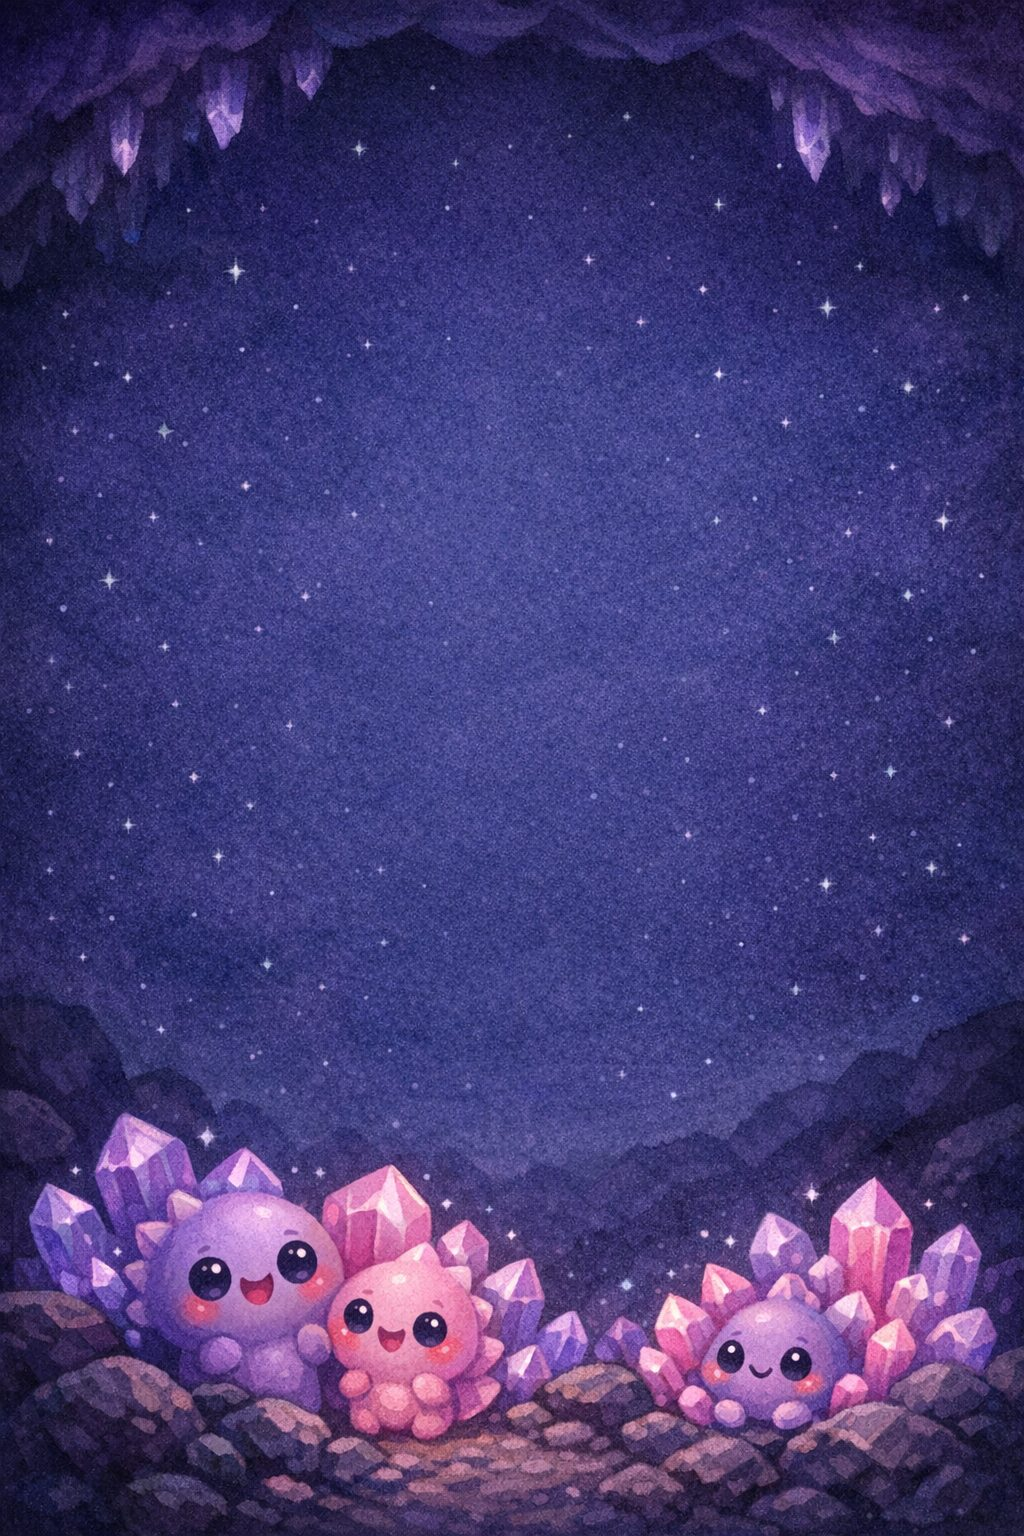
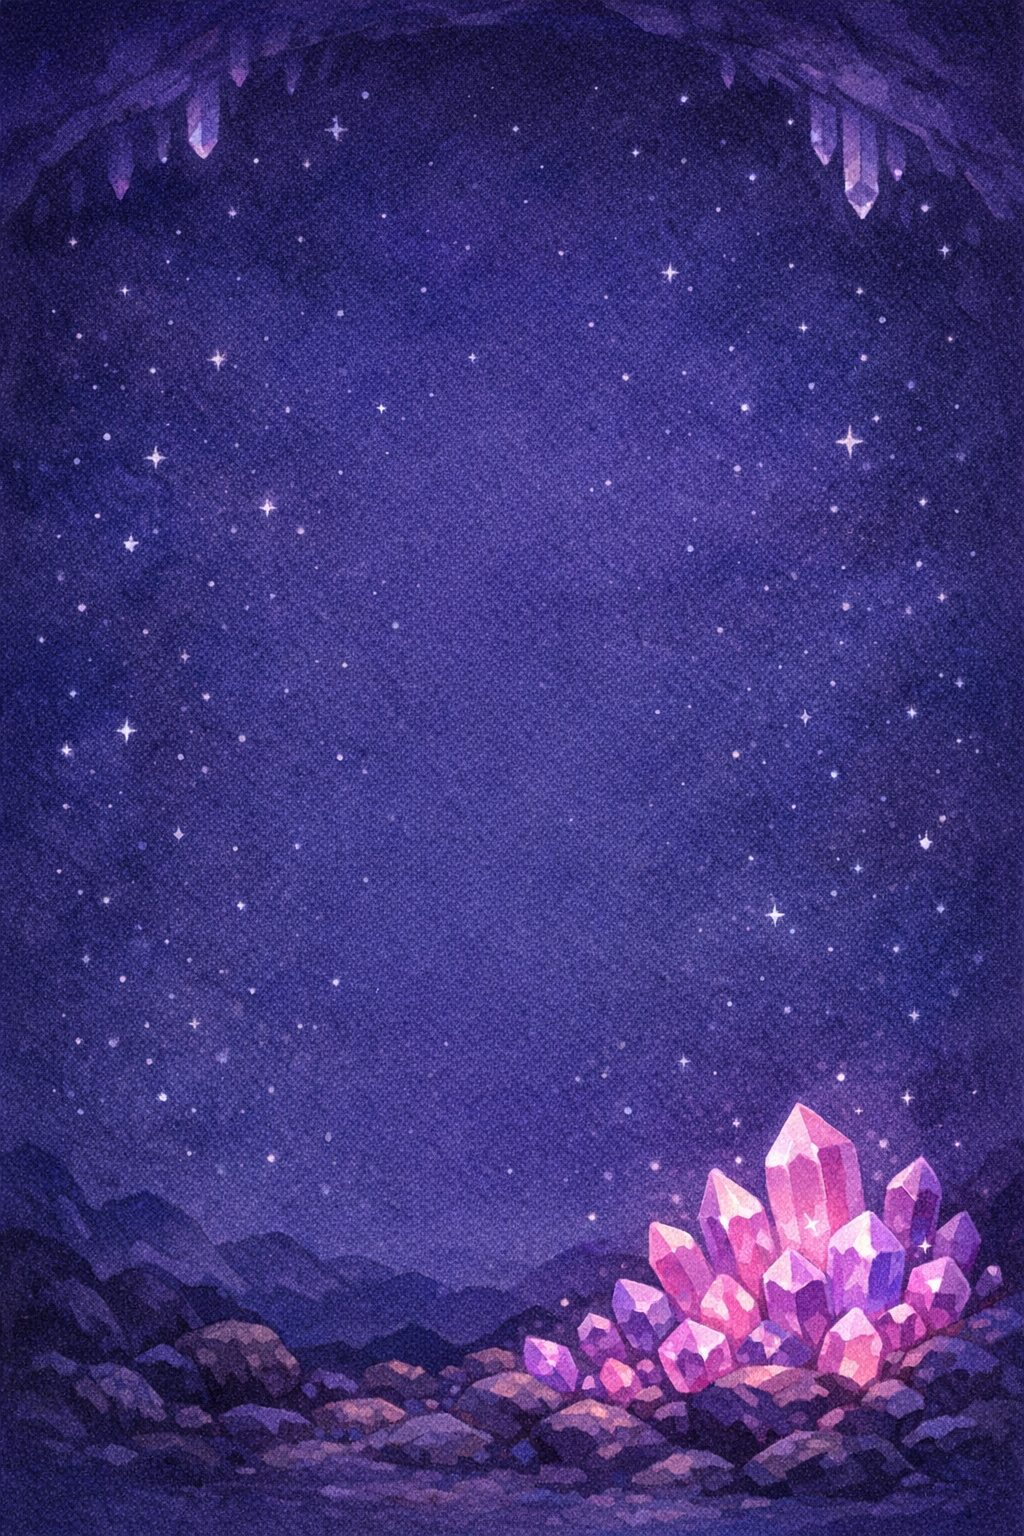
Batch A: scenery-only backdrops for Cave, Lagoon, Garden and Hollow; air at the top
The three backdrops that came back with characters in the bottom strip are
repainted with scenery only, Dragon Hollow is painted, and the lantern row
is taller so the companion, the goal stars and the board each have room.

Claude-Session: https://claude.ai/code/session_0137pAHw6aXVohaFp5BAxdva

diff --git a/src/game/view.ts b/src/game/view.ts
@@ -489,7 +489,7 @@ export class GameView {
     const width = Math.max(280, Math.floor(rect.width || window.innerWidth));
     const height = Math.max(400, Math.floor(rect.height || window.innerHeight));
     const pad = 8;
-    const hud = 108; // lantern and companion row plus the goal stars
+    const hud = 154; // lantern and companion row plus the goal stars, with air above and below (parent, 6 October: the top felt packed)
     // The canvas runs under the home indicator; the board itself stays above that strip.
     const inset = bottomInset();
     const cell = Math.min((width - pad * 2) / this.state.cols, (height - inset - hud - 24) / this.state.rows);
@@ -499,7 +499,7 @@ export class GameView {
     const spare = height - inset - hud - boardH;
     // The board sits at the top under the lantern row (art summit, DESIGN.md 2e), so the painted landscape shows beneath it.
     const boardY = hud + Math.max(6, spare * 0.15 - 8);
-    const hudY = boardY - 70;
+    const hudY = boardY - 90;
     this.layout = { width, height, cell, boardX, boardY, hudY };
     this.canvas.width = Math.round(width * this.dpr);
     this.canvas.height = Math.round(height * this.dpr);
@@ -1984,7 +1984,7 @@ export class GameView {
     if (n <= 0) return;
     const gap = Math.min(30, (w - 48) / n);
     const x0 = w / 2 - ((n - 1) * gap) / 2;
-    const y = hudY + 42;
+    const y = hudY + 54;
     for (let i = 0; i < n; i++) {
       const lit = i < this.goal.done;
       const pulse = this.goalPulse[i];
@@ -2047,8 +2047,8 @@ export class GameView {
     const bob = Math.sin(t * 1.3) * 1.5;
     const hop = pokeC ? -14 * Math.sin(clamp01(pokeC.t / 700) * Math.PI) : 0;
     const painted = this.companionArt[this.companion];
-    if (painted) drawPaintedCompanion(ctx, painted.awake, cx + 46, hudY - 4 + bob + hop, 62, t, { glow: pokeC ? 1.5 : 1 }, painted.asleep);
-    else drawCompanion(ctx, this.companion, cx + 40, hudY - 2 + bob + hop, 44, t, { glow: pokeC ? 1.5 : 1 });
+    if (painted) drawPaintedCompanion(ctx, painted.awake, cx + 46, hudY + 12 + bob + hop, 62, t, { glow: pokeC ? 1.5 : 1 }, painted.asleep);
+    else drawCompanion(ctx, this.companion, cx + 40, hudY + 8 + bob + hop, 44, t, { glow: pokeC ? 1.5 : 1 });
     this.drawGoal(t);
     // Moon (the grown-up gate, Stage 3), dim, top-left; baked so the cut-out never touches the canvas beneath.
     // While a grown-up holds it, it brightens and a soft glow gathers, so the hold visibly "takes".

diff --git a/STATUS.md b/STATUS.md
@@ -69,7 +69,7 @@ The style is settled (DESIGN.md 2e, STYLE.md). Production now runs in batches on
 - **Batch B, the map:** the scrolling storybook map, two or three painted sections per area with path points, lantern posts, the companions on the path. About $3.
 - **Stage 5 remainder, then Stage 6 polish and Batch D** (icon, launch picture, panel art), then the full-draft deploy for the parent to play end to end.
 
-Spent on pictures so far: the whole $10 credit (proof of concept, the summit, batch A).
+Spent on pictures so far: the first $10 credit (proof of concept, the summit, batch A) and about 80 cents of the $25 the parent added on 6 October.
 
 ### Batch A built (6 October, afternoon)
 
@@ -80,13 +80,14 @@ On the branch, checked (typecheck, 210 tests, build) and screenshotted at phone 
 - **Powers:** painted Orb, Aurora, bud, sprite and moon pearl stamped over their code-drawn versions (`src/render/powerArt.ts`); comet streak, starburst rays and all auras stay code-drawn.
 - **Companions:** fairy, dragon and hero, each with an asleep picture, on the board (62 px) and the map; the asleep picture replaces the code squash when it exists (`src/render/mapArt.ts`, `creatures.ts`). The code still calls them firefly, fish and hero so saves keep working; `COMPANION_FILES` maps the ids to the picture names.
 - **Board:** Play is seven by nine, at the top of the screen, with the area's painted backdrop behind it (`src/render/boardArt.ts`, loaded per area when first needed).
-- **Backdrops:** six of seven painted. Dragon Hollow failed because the credit ran out; it falls back to the code-drawn sky until it is painted (about 20 cents). Crystal Cave, Mermaid Lagoon and Star Garden came back with characters in the bottom strip (crystal creatures, a mermaid, a bunny and an owl) although the prompt asked for scenery only; the mermaid reaches up under the lowest rows. The parent decides whether to keep them or repaint those three scenery-only (about 60 cents).
+- **Backdrops:** all seven painted. The first Crystal Cave, Mermaid Lagoon and Star Garden came back with characters in the bottom strip although the prompt asked for scenery only; the parent found them distracting, so those three were repainted scenery-only with a firmer prompt ("no creatures, no characters, no animals, no people, no faces of any kind; the strip never taller than a sixth"), and Dragon Hollow was painted once the credit was topped up.
+- **Air at the top:** the parent found the top packed, so the lantern row is now 154 px tall: the companion sits lower under the Dynamic Island, the goal stars have room below it, and the board starts under them (`resize` and `drawHud` in `src/game/view.ts`).
 - The old map (perspective stage, code road) is unchanged until batch B.
 
 ## Next
 
 1. **Play-test Stage 3 on the phone:** first get the phone onto the current build (re-add the icon, or use a Private tab; see the stale-build note above), then: the map and the creatures, the gate (hold the moon top-left for 1.5 s, then tap the two words), the panel in a car with one thumb, the first discoveries (`?reset=1&level=5` opens straight at the Orb's gift, `?level=8` the Bloom's, `?level=15` the Sprite's, `?level=25` the Starburst's, `?level=31` the Moonrise's, `?level=51` the Aurora's), the area crossings (`?level=10` then finish the level), and the sound of each area. Confirm sound and the haptic tick as above.
-2. **Deploy batch A** once the parent says so (the branch `claude/art-style-and-roadmap-vi4nkp` carries it), paint Dragon Hollow's backdrop when credit is topped up, then **Stage 4** Play mode goals and obstacles (DESIGN.md 3.7) with completability tests, replacing the provisional Play board.
+2. **Deploy batch A** once the parent says so (the branch `claude/art-style-and-roadmap-vi4nkp` carries it), then **Stage 4** Play mode goals and obstacles (DESIGN.md 3.7) with completability tests, replacing the provisional Play board.
 3. **Stage 5** endings and wind-down (3.8): session timer, softening, the resting scene's timing and dimming, rest-until and New session as designed, the breathing glow controls, the night dimmer.
 4. **Stage 6** polish, performance on the phone during the biggest effects, Reduce Motion, area creature cameos, the discoveries book, README install guide, a Playwright smoke test.
 
